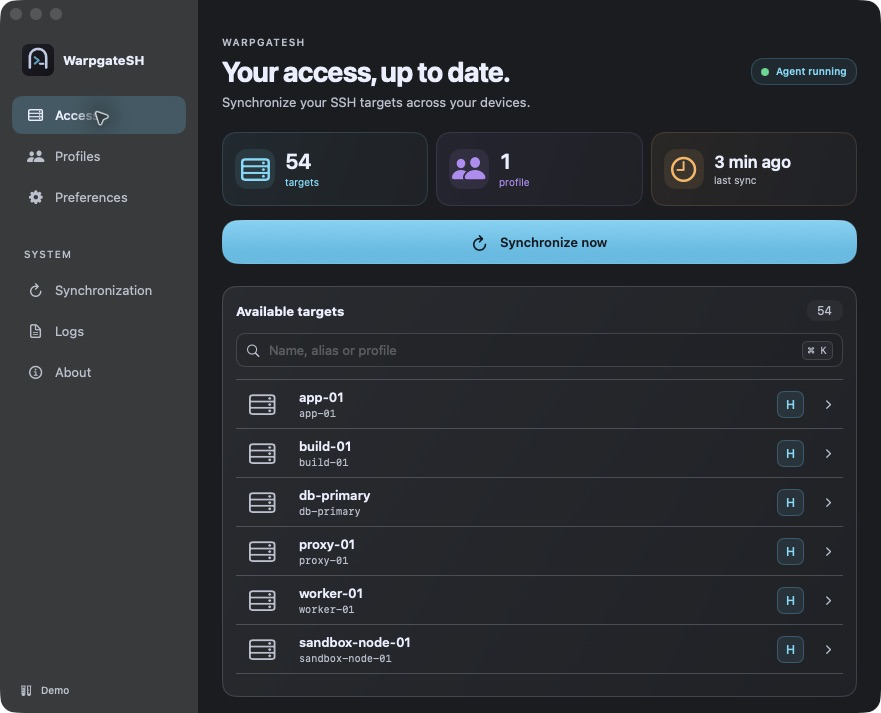
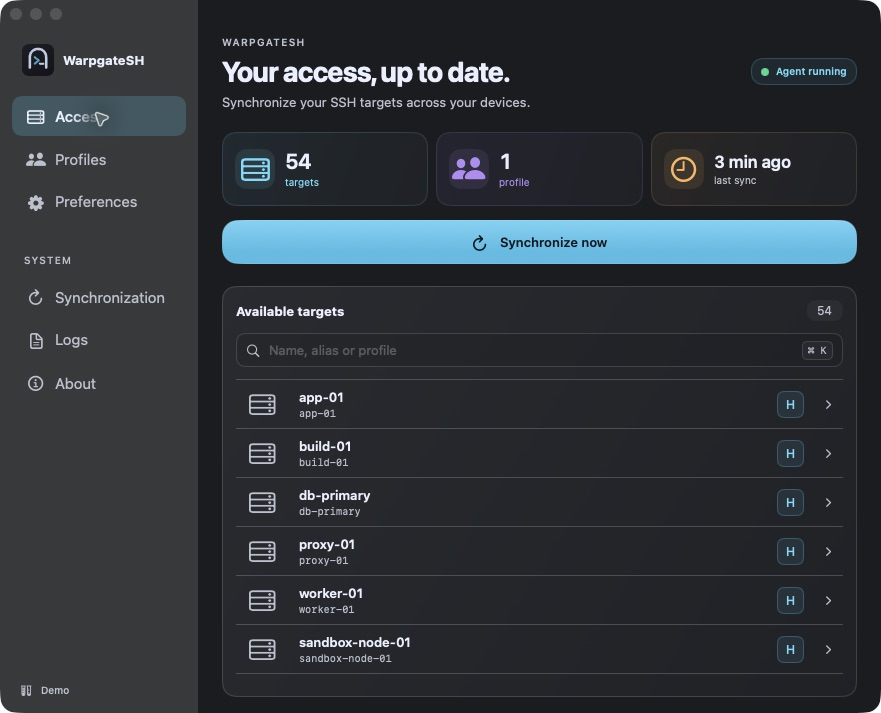
chore: prepare WarpgateSH v0.1.21 and refresh public guides

diff --git a/apps/warpgatesh-site/public/index.html b/apps/warpgatesh-site/public/index.html
@@ -177,7 +177,7 @@
           <p class="fine">
             Close the window. The background agent keeps working.
           </p>
-          <p class="preview-note">The native SwiftUI companion is included in v0.1.18 and later. Version 0.1.20 adds languages, themes and desktop notifications.</p>
+          <p class="preview-note">The native SwiftUI companion is included in v0.1.18 and later. Version 0.1.21 adds integrated sign-in, managed token renewal and native menu-bar refinements.</p>
           <a class="inline-link" href="docs/desktop-app.html">Explore the native companion <span aria-hidden="true">→</span></a>
         </div>
         <figure class="companion-figure">
@@ -185,7 +185,7 @@
             <img class="app-screenshot" src="assets/swiftui/access.png" width="881" height="713" loading="lazy" alt="Running WarpgateSH SwiftUI app with sidebar, synchronization cards, search and fictional SSH targets" />
           </a>
           <figcaption class="fine">
-            WarpgateSH v0.1.20 · Running app, fictional demo data.<br />
+            WarpgateSH v0.1.21 · Running app, fictional demo data.<br />
             Native SwiftUI interface for macOS 13 and later.
           </figcaption>
         </figure>
@@ -216,11 +216,11 @@
             <figcaption><h3>About and updates</h3><p>Check versions and apply signed updates after confirmation.</p></figcaption>
           </figure>
           <figure>
-            <a class="screenshot-link" href="assets/swiftui/preferences-light.png" aria-label="View the light appearance"><img class="app-screenshot" src="assets/swiftui/preferences-light.png" width="881" height="713" loading="lazy" alt="Light appearance of WarpgateSH v0.1.20, real app in demo mode" /></a>
+            <a class="screenshot-link" href="assets/swiftui/preferences-light.png" aria-label="View the light appearance"><img class="app-screenshot" src="assets/swiftui/preferences-light.png" width="881" height="713" loading="lazy" alt="Light appearance of WarpgateSH v0.1.21, real app in demo mode" /></a>
             <figcaption><h3>Light appearance</h3><p>Choose a theme or follow the appearance of macOS.</p></figcaption>
           </figure>
           <figure>
-            <a class="screenshot-link" href="assets/swiftui/preferences-black.png" aria-label="View the black appearance"><img class="app-screenshot" src="assets/swiftui/preferences-black.png" width="881" height="713" loading="lazy" alt="Black appearance of WarpgateSH v0.1.20, real app in demo mode" /></a>
+            <a class="screenshot-link" href="assets/swiftui/preferences-black.png" aria-label="View the black appearance"><img class="app-screenshot" src="assets/swiftui/preferences-black.png" width="881" height="713" loading="lazy" alt="Black appearance of WarpgateSH v0.1.21, real app in demo mode" /></a>
             <figcaption><h3>Black appearance</h3><p>Choose a theme or follow the appearance of macOS.</p></figcaption>
           </figure>
         </div>

diff --git a/apps/warpgatesh-macos/Sources/WarpgateSH/Bridge/DemoBridge.swift b/apps/warpgatesh-macos/Sources/WarpgateSH/Bridge/DemoBridge.swift
@@ -18,7 +18,7 @@ final class DemoBridge: CompanionTransport {
     preferences: .init(
       syncIntervalSeconds: 300, launchCompanionAtLogin: false, defaultProfile: "homelab"),
     terminalIntegration: .init(status: "missing", path: "/usr/local/bin/warpgatesh"),
-    update: .init(phase: "idle", channel: "unsupported", currentVersion: "0.1.20"), alerts: [])
+    update: .init(phase: "idle", channel: "unsupported", currentVersion: "0.1.21"), alerts: [])
 
   func request(_ command: String, args: [String: JSONValue]) async throws -> JSONValue {
     switch command {

diff --git a/docs/getting-started.md b/docs/getting-started.md
@@ -1,16 +1,4 @@
-# Create a token and connect
-
-> Development preview: assisted sign-in and automatic token renewal are implemented
-> on `codex/assisted-token-lifecycle`, after release 0.1.20. In that preview, enter
-> an HTTPS instance URL in **Profiles → Add a profile → Sign in to Warpgate**,
-> authenticate on the official page, approve the SSH fingerprints, then save.
-> The app creates and stores the personal token; the agent renews it before expiry.
-> Existing profiles can use **Renew through the API** to adopt a managed token.
-> Expired or revoked tokens require **Sign in to Warpgate again**. Manual token
-> import remains available under **Use an existing token**. See
-> [the lifecycle decision](adr/0037-manage-personal-api-tokens-through-the-agent.md).
-> The instructions below describe the currently published release and CLI flow.
-
+# Connect your Warpgate instance
 
 Before starting, you need:
 
@@ -22,46 +10,51 @@ Before starting, you need:
 WarpgateSH supports user access. It does not create Warpgate users, roles, or
 targets.
 
-## 1. Create a personal API token
+## 1. Sign in with the macOS companion
 
-Sign in to Warpgate with the same user whose SSH targets you want to use. Open
-**Profile → API tokens** and create a personal token. WarpgateSH can open the
-corresponding page for you from either the graphical profile form or the CLI.
+From **v0.1.21**, the companion can create a personal API token without
+copying it from your browser. French and English labels are available. See the
+[native profile walkthrough and screenshots](desktop-app.md#profiles).
 
-Treat the token like a password. Paste it only into WarpgateSH. The client
-validates it against your instance, stores it in the macOS Keychain, and never
-writes it to the generated SSH configuration.
-
-## 2. Add the instance
-
-### With the graphical companion
-
-These English labels apply to **v0.1.20 and later**; French remains available. See the [native profile walkthrough
-and screenshots](desktop-app.md#profiles).
-
-1. Open **Profiles** and select **Add a profile**.
+1. Open **Profiles → Add a profile**.
 2. Enter a local name using lowercase letters, digits and hyphens, such as `production`.
-3. Enter the Warpgate root URL and your personal API token.
-4. Select **Check profile**.
-5. Compare the displayed SSH host-key fingerprints with a trusted source.
+3. Enter your instance's HTTPS root URL and select **Sign in to Warpgate**.
+4. Authenticate on the official instance page inside the app. Password, SSO and
+   MFA remain controlled by Warpgate and your identity provider.
+5. Select **Check profile** and compare the displayed SSH host-key fingerprints
+   with a trusted source.
 6. Enable **I verified these fingerprints through a trusted channel**, then select **Save**.
 
-If SSH uses a different public hostname or port from the HTTP service, expand
-**SSH options** and provide the reachable endpoint. Enrollment is refused if
-the keys change between inspection and saving.
+Only saving creates the token. The agent stores it in the macOS Keychain and
+renews it before its server-reported expiry. It never becomes an SSH credential.
+If your identity provider disallows embedded sign-in, use the existing-token
+option below. Real SSO behavior depends on your instance and provider.
 
-### With the CLI
+**SSH options** can override a detected hostname or port. Enrollment is refused
+if the host keys change between inspection and saving. The first profile becomes
+the default profile.
+
+## 2. Alternative: import a personal token or use the CLI
+
+Sign in to Warpgate with the user whose SSH targets you want to use. Open
+**Profile → API tokens** and create a personal token. In the companion, expand
+**Use an existing token**, paste it into the secure field, then check and save
+the profile with the same SSH fingerprint approval.
+
+Treat the token like a password. WarpgateSH validates it against your instance,
+stores it in the native secret store and never writes it to SSH configuration.
+Imported tokens are not automatically adopted or revoked. To adopt a token managed
+by the app, select **Renew token → Renew through the API** on that profile.
+
+The CLI retains its interactive manual-token flow:
 
 ```sh
 warpgatesh profile add production https://bastion.example.org
 ```
 
-The command opens the token page, prompts for the token without echoing it,
-discovers the SSH endpoint, and displays its host-key fingerprints. If the
-advertised SSH endpoint is unreachable, the CLI asks for a different hostname
-or port.
-
-The first profile automatically becomes the default profile.
+The command opens the token page, prompts without echoing the secret, discovers
+the SSH endpoint and displays its fingerprints. If that endpoint is unreachable,
+it asks for a different hostname or port.
 
 ## 3. Synchronize targets
 
@@ -140,15 +133,29 @@ not support the preference and can discard it when saving profiles; upgrade the
 complete application before configuring it. Personal SSH rules loaded earlier
 still take precedence over generated aliases.
 
-## Renew an expired token
+## Automatic renewal and reconnecting
 
-Create a new personal token in Warpgate, then use the profile action in the
-graphical companion or run:
+A profile enrolled through integrated sign-in or **Renew through the API** shows
+**Automatic renewal** and the instance's actual token expiry. The independent
+agent performs rotation before expiry, even with the companion closed. You can
+disable it per profile. Creation requests honor the instance's maximum lifetime,
+up to 30 days. Unusually short policies (below six minutes) are not supported.
+
+Failures keep the last usable token and are retried with a delay. Only tokens
+created by the app may be revoked after a durable replacement and a grace period;
+imported tokens are never revoked automatically. A known manual reminder is used
+only when the token's actual expiry is unavailable.
+
+An already expired or revoked token cannot renew itself. Use **Renew token →
+Sign in to Warpgate again**, authenticate with the same identity, then the app
+creates its replacement. Alternatively, import a fresh personal token, or run:
 
 ```sh
 warpgatesh login production
 ```
 
-The previous Keychain value is replaced after the new token is validated.
+Manual import replaces the local secret after validation and leaves automatic
+management off until you explicitly adopt a managed token again. Review your
+personal tokens in Warpgate to revoke any no-longer-used credentials.
 
 If anything fails, continue with [Troubleshooting](troubleshooting.md).

diff --git a/docs/desktop-app.md b/docs/desktop-app.md
@@ -7,7 +7,7 @@ the synchronization agent and OpenSSH access work independently of its window.
 **Availability:** the native interface is available in **v0.1.18 and later**.
 The screenshots are actual captures of the running SwiftUI application in its
 isolated demo mode. Every profile, target, counter and diagnostic entry shown
-is fictional. These v0.1.20 captures use English labels. From v0.1.20 the
+is fictional. These v0.1.21 captures use English labels. From v0.1.20 the
 interface supports French, English and automatic language selection.
 
 ## Access
@@ -24,14 +24,37 @@ The last successful snapshot remains available if a later synchronization fails.
 
 ![SwiftUI Profiles screen with a fictional homelab profile](assets/swiftui/profiles.png)
 
-Use **Add a profile**, enter the local name, instance URL and personal API
-token, then select **Check profile**. Compare the displayed SSH host-key
-fingerprints with a trusted source. Enable **I verified these fingerprints through a trusted channel** and select **Save** only after they match.
+From **v0.1.21**, select **Add a profile**, enter the local name and HTTPS
+instance URL, then **Sign in to Warpgate**. The official instance page opens
+inside an ephemeral sign-in window; the instance still controls SSO and MFA.
+Use **Check profile**, compare the SSH host-key fingerprints with a trusted
+source, approve them, then **Save**. Only saving creates and stores the token.
 
-**SSH options** lets you override a detected hostname or port. If the keys change
-between inspection and saving, enrollment is refused and must be verified again.
-Existing profiles offer **Renew token**, **Set as default** and a
-confirmed **Remove** action. Tokens stay in the platform secret store.
+![Profile enrollment and SSH approval in demo mode](assets/swiftui/profile-add.png)
+
+The demo sign-in screen below simulates authentication only. Connected mode
+loads your instance's official page. Providers that reject embedded sign-in can
+use **Use an existing token**, which retains the manual secure-field flow.
+
+![Isolated sign-in simulation; no real instance authentication](assets/swiftui/profile-login.png)
+
+**SSH options** overrides a detected endpoint. Changed fingerprints between
+inspection and saving are refused. Tokens remain in the native secret store.
+
+### Managed token renewal
+
+**Renew token → Renew through the API** creates an app-managed replacement
+using your current valid token. Managed profiles show **Automatic renewal** and
+the server's expiry date. The independent agent rotates the token before expiry,
+with retries on failure, even when the companion is closed. Only app-created
+tokens may be revoked after replacement; imported tokens are never revoked.
+
+![Token renewal actions in the native demo app](assets/swiftui/token-renewal.png)
+
+An expired or revoked token requires **Sign in to Warpgate again**. Authenticate
+with the same identity as the profile. You can disable automatic renewal per
+profile or import a token manually. See the [complete token lifecycle guide](getting-started.md#automatic-renewal-and-reconnecting)
+for policy limits, ownership and manual-token behavior.
 
 ## Preferences
 
@@ -87,9 +110,14 @@ with an underline and color change on hover. Check the installed version and upd
 releases every six hours; **Check for updates** requests a manual check.
 An available signed update requires confirmation before replacing the app, CLI
 and agent together. Homebrew installations instead show the upgrade command.
-The version shown corresponds to the v0.1.20 source build used for these captures.
+The version shown corresponds to the v0.1.21 source build used for these captures.
 
 ## Menu bar, keyboard and accessibility
+
+From **v0.1.21**, the menu-bar item uses the monochrome WarpgateSH logo. Closing
+the window hides its Dock icon while leaving the companion in the menu bar;
+reopening restores the window and Dock. **Quit WarpgateSH** exits the companion.
+The Dock logo has native margins, and sidebar labels and icons are larger.
 
 The menu-bar companion shows agent status and counts and provides shortcuts to
 the main window, synchronization, profiles and preferences. **⌘,** opens
@@ -116,10 +144,11 @@ settings…** to change it. **Send a test notification** checks delivery.
 You can choose which alerts to receive:
 
 - **Expired or expiring tokens:** rejected authentication opens the profile list.
-  For advance reminders, enter a known expiry date under **Profiles → Token expiry
-  reminder…**. Reminders occur within seven days, within one day, and after expiry.
-  WarpgateSH does not guess the date of an existing token. Successfully replacing
-  the token clears its old reminder date.
+  Managed profiles use their server-reported expiry and report automatic renewal
+  failures. For an imported token without a known expiry, enter a date under
+  **Profiles → Token expiry reminder…**. Reminders occur within seven days,
+  within one day and after expiry. WarpgateSH never guesses an imported token’s
+  expiry; successful replacement clears an old manual reminder.
 - **Persistent synchronization failures:** an alert opens diagnostics when the
   agent reports repeated failures or overdue synchronization.
 - **WarpgateSH updates:** an alert opens About when a client update is available.

diff --git a/docs/assets/swiftui/README.md b/docs/assets/swiftui/README.md
@@ -4,10 +4,10 @@ Captured on 30 October 2026 from the running native macOS application in
 `apps/warpgatesh-macos`, using its `--demo` mode and native app screenshot API.
 These are application screenshots, not rendered HTML or generated mockups.
 
-The ten images show the approved interface and real native controls. Every
+The thirteen images show the approved interface and real native controls. Every
 profile, hostname, URL, counter and diagnostic entry comes from fictional demo
 fixtures; no live infrastructure data or tokens are included. The English UI
-labels are captured as displayed. The screenshots correspond to the v0.1.20 source build. The native SwiftUI
+labels are captured as displayed. The screenshots correspond to the v0.1.21 source build. The native SwiftUI
 interface is distributed from v0.1.18.
 
 `manifest.json` records dimensions and SHA-256 checksums. The project README,
@@ -21,3 +21,7 @@ live profiles, private hostnames or personal paths appear before publication.
 
 The preferences captures include General, Synchronization, System and the Light
 and Black variants. The original Warpgate theme is used for the other screens.
+
+The three new sheets (`profile-add`, `profile-login`, `token-renewal`) retain
+their actual native sheet dimensions. The login capture is a labeled simulation,
+not evidence of authentication against a real instance or identity provider.

diff --git a/apps/warpgatesh-macos/README.md b/apps/warpgatesh-macos/README.md
@@ -85,11 +85,12 @@ About, or the official Warpgate release notes. The companion keeps monitoring
 when its window is closed, while its menu-bar process is running. Quitting it
 stops notifications; the independent Rust agent continues synchronizing.
 
-Warpgate does not identify the expiry date of an already stored API token in the
-responses used by this client. **Profiles → Token expiry reminder** accepts an
-optional user-supplied date. Reminders occur within seven days, within one day,
-and after expiry. No date is guessed. Rejected authentication is reported even
-without a date. Successfully replacing a token clears its old expiry reminder.
+From v0.1.21, app-managed tokens use their server-reported expiry and are renewed
+by the Rust agent. Imported tokens without an expiry retain **Profiles → Token
+expiry reminder**, an optional user-supplied date. Reminders occur within seven
+days, within one day and after expiry. No date is guessed. Rejected authentication
+and failed automatic renewal open the profile. Successful replacement clears an
+old manual reminder. See [sign-in and token renewal](../../docs/getting-started.md).
 
 Server release checks are optional per profile, every six hours, against the
 public GitHub releases API. They compare stable numeric versions with the server

diff --git a/README.md b/README.md
@@ -21,7 +21,7 @@ tools.
 
 ![WarpgateSH SwiftUI access screen](docs/assets/swiftui/access.png)
 
-*WarpgateSH v0.1.20, English interface. Native SwiftUI companion available from v0.1.18. Actual capture of the running
+*WarpgateSH v0.1.21, English interface. Native SwiftUI companion available from v0.1.18. Actual capture of the running
 macOS app using fictional demo data.*
 
 [Explore the six native screens](docs/desktop-app.md) ·
@@ -64,6 +64,12 @@ beta through Homebrew/Linuxbrew. See [Install WarpgateSH on Linux](docs/installa
 The graphical companion can install the bundled CLI from its preferences. It
 never needs to stay open: synchronization is handled independently by a
 per-user background agent.
+
+From **v0.1.21**, the companion offers **Profiles → Add a profile → Sign in to
+Warpgate**. Authenticate on your instance's official page, approve the SSH host
+fingerprints and save. The app creates the token; the background agent renews
+it before expiry. Existing-token import and the CLI flow remain available.
+See [sign-in and token renewal](docs/getting-started.md).
 
 Add a profile for your Warpgate instance:
 

diff --git a/docs/troubleshooting.md b/docs/troubleshooting.md
@@ -37,8 +37,10 @@ DMG if the requesting application is not WarpgateSH.
 ## Warpgate rejects the API token
 
 The token may be expired, revoked, copied incompletely, or owned by another
-account. Create a new personal token while signed in as the intended Warpgate
-user, then replace it:
+account. From v0.1.21, use **Profiles → Renew token → Sign in to Warpgate again**
+and authenticate as the profile’s existing identity. An expired token cannot
+renew itself. A provider that rejects embedded sign-in can use manual import.
+Alternatively, create a fresh personal token in Warpgate, then replace it:
 
 ```sh
 warpgatesh login <profile>

diff --git a/CHANGELOG.md b/CHANGELOG.md
@@ -4,6 +4,8 @@ Toutes les évolutions notables de WarpgateSH sont documentées ici.
 
 ## Non publié
 
+## 0.1.21 — 2026-10-30
+
 - Les libellés et icônes du volet latéral sont légèrement agrandis, avec des lignes plus aérées.
 
 - La barre de menus utilise le logo monochrome WarpgateSH avec une info-bulle identifiable, à la place du symbole générique de terminal.

diff --git a/docs/adr/0037-manage-personal-api-tokens-through-the-agent.md b/docs/adr/0037-manage-personal-api-tokens-through-the-agent.md
@@ -1,6 +1,6 @@
 # 0037 — Manage personal API tokens through the agent
 
-Status: implemented on the development branch; not included in published 0.1.20.
+Status: accepted; included from WarpgateSH 0.1.21.
 
 ## Decision
 
